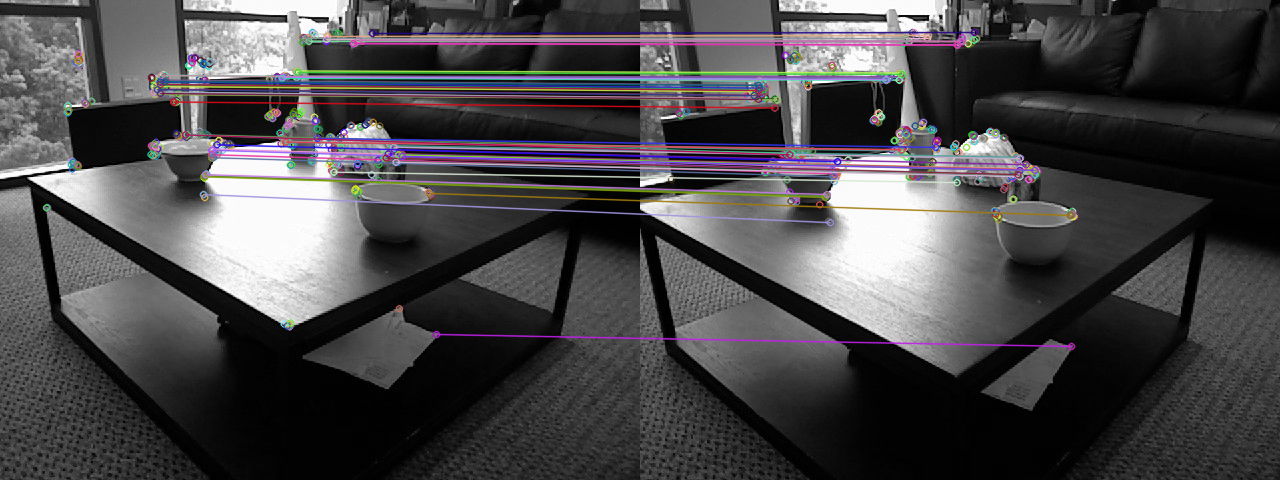
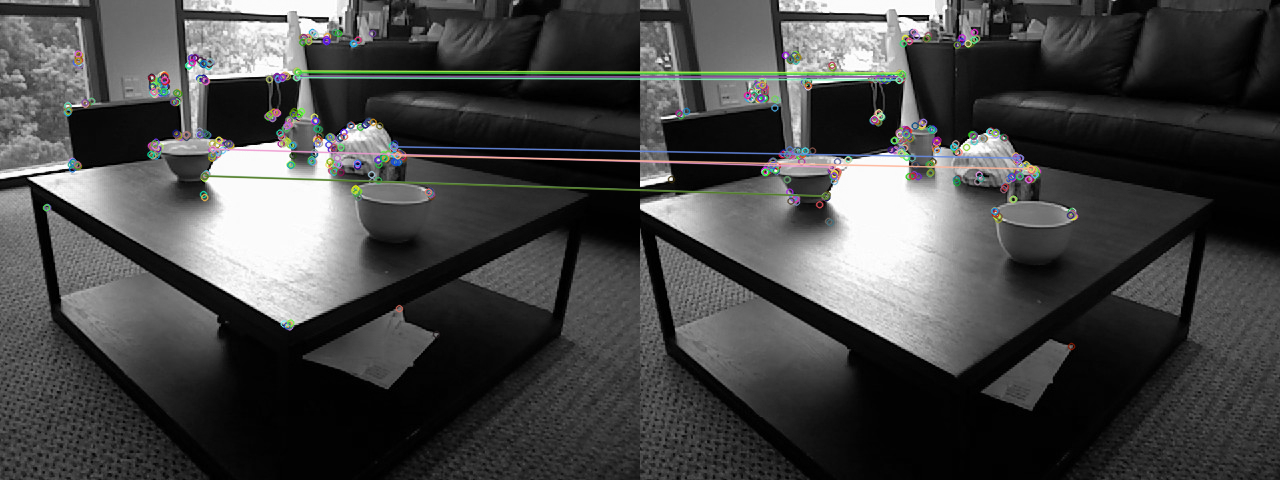
Draw & toggle matches

diff --git a/src/spawn.rs b/src/spawn.rs
@@ -1,15 +1,16 @@
-use std::{path::Path, sync::{Arc, Mutex}};
-
+use std::path::Path;
 use bevy::{asset::RenderAssetUsages, prelude::*, render::mesh::PrimitiveTopology};
-use bevy_flycam::prelude::*;
 use rand::Rng;
 use crate::render::{self, CENTER};
 
 #[derive(Resource)]
-pub struct ExtractedKeypoints(pub Arc<Mutex<Vec<[f32; 3]>>>);
+pub struct ExtractedKeypoints(pub (Vec<[f32; 3]>, Vec<[f32; 3]>, Vec<[usize; 2]>));
 
 #[derive(Component)]
 pub struct ToggleKeypoints;
+
+#[derive(Component)]
+pub struct ToggleMatches;
 
 pub fn spawn_mesh<T: AsRef<Path>>(
     commands: &mut Commands,
@@ -34,17 +35,22 @@ pub fn spawn_mesh<T: AsRef<Path>>(
     ));
 }
 
+/// Draws keypoints and their corresponding matches
+/// 
+/// * matches: Matches from the first image to the second one, which means that keypoints1[i]
+/// has a corresponding point in keypoints2[matches[i]]
 pub fn spawn_keypoints(
-    commands: &mut Commands,
-    meshes: &mut ResMut<Assets<Mesh>>,
-    materials: &mut ResMut<Assets<StandardMaterial>>,
-    keypoints: Res<ExtractedKeypoints>,
+    mut commands: &mut Commands,
+    mut meshes: &mut ResMut<Assets<Mesh>>,
+    mut materials: &mut ResMut<Assets<StandardMaterial>>,
+    matches: &Vec<[usize; 2]>,
+    keypoints1: &Vec<[f32; 3]>,
+    keypoints2: &Vec<[f32; 3]>,
+    transform1: Transform,
+    transform2: Transform
 ) {
-    let kps = keypoints.0.lock().unwrap(); // Safely access the keypoints
-    let icosphere_mesh = meshes.add(Sphere::new(0.1).mesh().ico(7).unwrap());
-
-    // Spawn all keypoints
-    for keypoint in kps.iter() {
+    // Spawn all keypoints that match
+    for dmatch in matches.iter() {
         let mut rng = rand::thread_rng();
     
         // Generate a random color
@@ -53,20 +59,89 @@ pub fn spawn_keypoints(
             1.0,
             1.0,
         );
+
+        // Get keypoints coordinates and spawn them
+        let query_idx = dmatch[0];
+        let train_idx = dmatch[1];
         
-        // Spawn a ball (sphere) at position (x, y, z)
-        commands.spawn((
-            Mesh3d(icosphere_mesh.clone()),
-            MeshMaterial3d(materials.add(StandardMaterial {
-                base_color: color,
-                alpha_mode: AlphaMode::Opaque,
-                ..default()
-            })),
-            Transform::from_xyz(keypoint[0], keypoint[1], keypoint[2]),
-            Visibility::Hidden,
-            ToggleKeypoints
-        ));
+        // Check array limits
+        if query_idx < keypoints1.len() && train_idx < keypoints2.len() {
+            // Draw points
+            let keypoint1 = keypoints1[query_idx];
+            let position1 = transform1.transform_point(Vec3::from_array(keypoint1));
+            draw_keypoint(&mut commands, &mut meshes, &mut materials, position1, color);
+
+            let keypoint2 = keypoints2[train_idx];
+            let position2 = transform2.transform_point(Vec3::from_array(keypoint2));
+            draw_keypoint(&mut commands, &mut meshes, &mut materials, position2, color);
+
+            draw_line(
+                &mut commands, 
+                &mut meshes, 
+                &mut materials, 
+                position1, 
+                position2, 
+                color, 
+                0.05
+            );
+        }
     }
+}
+
+fn draw_keypoint(
+    commands: &mut Commands, 
+    meshes: &mut ResMut<Assets<Mesh>>, 
+    materials: &mut ResMut<Assets<StandardMaterial>>, 
+    position: Vec3, 
+    color: Color
+) {
+    let icosphere_mesh = meshes.add(Sphere::new(0.1).mesh().ico(7).unwrap());
+
+    // Spawn a ball (sphere) at position (x, y, z)
+    commands.spawn((
+        Mesh3d(icosphere_mesh.clone()),
+        MeshMaterial3d(materials.add(StandardMaterial {
+            base_color: color,
+            alpha_mode: AlphaMode::Opaque,
+            emissive: color.into(),
+            ..default()
+        })),
+        Transform::from_xyz(position.x, position.y, position.z),
+        Visibility::Hidden,
+        ToggleKeypoints
+    ));
+}
+
+fn draw_line(
+    commands: &mut Commands,
+    meshes: &mut ResMut<Assets<Mesh>>,
+    materials: &mut ResMut<Assets<StandardMaterial>>,
+    start: Vec3,
+    end: Vec3,
+    color: Color,
+    thickness: f32,
+) {
+    let direction = end - start;
+    let length = direction.length();
+    let midpoint = start + direction * 0.5;
+    let rotation = Quat::from_rotation_arc(Vec3::Y, direction.normalize());
+
+    commands.spawn((
+        Mesh3d(meshes.add(Cylinder::new(thickness / 2.0, length))),
+        MeshMaterial3d(materials.add(StandardMaterial {
+            base_color: color,
+            alpha_mode: AlphaMode::Opaque,
+            emissive: color.into(),
+            ..default()
+        })),
+        Transform {
+            translation: midpoint,
+            rotation,
+            ..Default::default()
+        },
+        Visibility::Hidden,
+        ToggleMatches
+    ));
 }
 
 pub fn spawn_pyramid_camera(
@@ -109,7 +184,12 @@ pub fn spawn_pyramid_camera(
     // Spawn pyramid edges
     commands.spawn((
         Mesh3d(meshes.add(mesh)),
-        MeshMaterial3d(materials.add(Color::WHITE)),
+        MeshMaterial3d(materials.add(StandardMaterial {
+            base_color: Color::WHITE,
+            alpha_mode: AlphaMode::Opaque,
+            emissive: Color::WHITE.into(),
+            ..default()
+        })),
         transform
     ));
 }

diff --git a/src/main.rs b/src/main.rs
@@ -1,5 +1,3 @@
-use std::sync::{Arc, Mutex};
-
 use bevy::prelude::*;
 use bevy_flycam::prelude::*;
 use spawn::*;
@@ -11,19 +9,24 @@ mod spawn;
 const IMG1_COLOR_PATH: &str = "assets/00000-color.png";
 const IMG1_DEPTH_PATH: &str = "assets/00000-depth.png";
 const IMG2_COLOR_PATH: &str = "assets/00050-color.png";
-//const IMG2_DEPTH_PATH: &str = "assets/00050-depth.png";
-const IMG4_COLOR_PATH: &str = "assets/00200-color.png";
-const IMG4_DEPTH_PATH: &str = "assets/00200-depth.png";
+const IMG2_DEPTH_PATH: &str = "assets/00050-depth.png";
+//const IMG4_COLOR_PATH: &str = "assets/00200-color.png";
+//const IMG4_DEPTH_PATH: &str = "assets/00200-depth.png";
 
 fn main() {
     let mut keypoints1: Vec<[f32; 3]> = Vec::new();
     let mut keypoints2: Vec<[f32; 3]> = Vec::new();
-    if let Ok((kp1, kp2, _matches)) = orb::extract_features(
+    let mut matches: Vec<[usize; 2]> = Vec::new();
+    if let Ok((kps1, kps2, mts)) = orb::extract_features(
         IMG1_COLOR_PATH, 
         IMG2_COLOR_PATH
     ) {
-        keypoints1 = render::give_depth(kp1, IMG1_DEPTH_PATH);
-        keypoints2 = render::give_depth(kp2, IMG4_DEPTH_PATH);
+        keypoints1 = render::give_depth(kps1, IMG1_DEPTH_PATH);
+        keypoints2 = render::give_depth(kps2, IMG2_DEPTH_PATH);
+        matches = mts
+            .iter()
+            .map(|m| [m.query_idx as usize, m.train_idx as usize])
+            .collect();
     }
 
     App::new()
@@ -33,11 +36,11 @@ fn main() {
             sensitivity: 0.00015, // default: 0.00012
             speed: 10.0,          // default: 12.0
         })
-        .insert_resource(AmbientLight {
+        /*.insert_resource(AmbientLight {
             color: Color::WHITE,
             brightness: 500.0,
-        })
-        .insert_resource(ExtractedKeypoints(Arc::new(Mutex::new(keypoints1))))
+        })*/
+        .insert_resource(ExtractedKeypoints((keypoints1, keypoints2, matches)))
         .add_systems(Startup, setup)
         .add_systems(Update, input_handler)
         .run();
@@ -50,7 +53,7 @@ fn setup(
     mut materials: ResMut<Assets<StandardMaterial>>,
     keypoints: Res<ExtractedKeypoints>
 ) {
-    // Pose IMG1
+    // Reference pose (from IMG1)
     let pose1_quat = Quat::from_xyzw(0.0, 0.0, 0.0, 1.0); // Identity quaternion
     let pose1_translation = Vec3::new(0.0, 0.0, 0.0);
     let pose1 = Transform {
@@ -59,9 +62,18 @@ fn setup(
         ..Default::default()
     };
 
-    // Pose IMG2
-    //let pose2_quat = Quat::from_xyzw(-0.0059421, 0.0373319, 0.0209614, 0.999065);
-    //let pose2_translation = Vec3::new(-0.067494, -0.058187, 0.0369303);
+    // True IMG2 pose
+    /*// (x: -qX, y: -qY, z: qZ, w: qW)
+    let pose2_quat = Quat::from_xyzw(0.0059421, -0.0373319, 0.0209614, 0.999065);
+    // (x: -worldX, y: -worldY, z: worldZ)
+    let pose2_translation = Vec3::new(0.067494*10.0, 0.058187*10.0, 0.0369303*10.0);
+    let pose2 = Transform {
+        rotation: pose2_quat,
+        translation: pose2_translation,
+        ..Default::default()
+    };*/
+    
+    // Initial IMG2 pose (It's actually the IMG4 pose)
     // (x: -qX, y: -qY, z: qZ, w: qW)
     let pose2_quat = Quat::from_xyzw(0.0610943, -0.324556, 0.149797, 0.931926);
     // (x: -worldX, y: -worldY, z: worldZ)
@@ -76,16 +88,19 @@ fn setup(
     spawn_mesh(&mut commands, &mut meshes, &mut materials, IMG1_COLOR_PATH, IMG1_DEPTH_PATH, pose1);
 
     // Spawn predicted mesh
-    spawn_mesh(&mut commands, &mut meshes, &mut materials, IMG4_COLOR_PATH, IMG4_DEPTH_PATH, pose2);
+    spawn_mesh(&mut commands, &mut meshes, &mut materials, IMG2_COLOR_PATH, IMG2_DEPTH_PATH, pose2);
+    //spawn_mesh(&mut commands, &mut meshes, &mut materials, IMG4_COLOR_PATH, IMG4_DEPTH_PATH, pose4);
 
-    // Spawn reference keypoints
-    spawn_keypoints(&mut commands, &mut meshes, &mut materials, keypoints);
+    // Spawn keypoints in both images (reference and target)
+    let (keypoints1, keypoints2, matches) = &keypoints.0;
+    spawn_keypoints(&mut commands, &mut meshes, &mut materials, matches,keypoints1,keypoints2,pose1,pose2);
 
     // Spawn reference camera
     spawn_pyramid_camera(&mut commands, &mut meshes, &mut materials, pose1);
 
     // Spawn predicted camera
     spawn_pyramid_camera(&mut commands, &mut meshes, &mut materials, pose2);
+    //spawn_pyramid_camera(&mut commands, &mut meshes, &mut materials, pose4);
 
     // Display instructions
     spawn_instructions(&mut commands);
@@ -102,11 +117,21 @@ fn setup(
 // System to receive input from the user
 fn input_handler(
     keyboard_input: Res<ButtonInput<KeyCode>>,
-    mut query: Query<&mut Visibility, With<ToggleKeypoints>>
+    mut param_set: ParamSet<(
+        Query<&mut Visibility, With<ToggleKeypoints>>,
+        Query<&mut Visibility, With<ToggleMatches>>,
+    )>,
 ) {
     // Toggle keypoints visibility
     if keyboard_input.just_pressed(KeyCode::KeyK) {
-        for mut visibility in query.iter_mut() {
+        for mut visibility in param_set.p0().iter_mut() {
+            visibility.toggle_visible_hidden();
+        }
+    }
+
+    // Toggle matches visibility
+    if keyboard_input.just_pressed(KeyCode::KeyM) {
+        for mut visibility in param_set.p1().iter_mut() {
             visibility.toggle_visible_hidden();
         }
     }

diff --git a/src/render.rs b/src/render.rs
@@ -7,6 +7,7 @@ use opencv::core::{KeyPoint, KeyPointTraitConst, Vector};
 pub const CENTER: [f32; 2] = [320.0, 240.0]; // Image center
 pub const CONSTANT: f32 = 570.3;             // Focal length (in pixels, typically in x and y directions)
 pub const MM_PER_M: f32 = 1000.0;            // Conversion factor (millimeters to meters)
+pub const NO_VALUE: f32 = 0.0;
 
 pub fn rgbd_to_mesh<T: AsRef<Path>>(color_path: T, depth_path: T) -> Mesh {
     // Load the depth and color images
@@ -30,7 +31,7 @@ pub fn rgbd_to_mesh<T: AsRef<Path>>(color_path: T, depth_path: T) -> Mesh {
                     // Extract the depth value from the red channel (index 0)
                     let depth_value = depth_buffer.get_pixel(x, y).channels()[0] as f32;
 
-                    if depth_value != 0.0 {
+                    if depth_value != NO_VALUE {
                         positions.push(compute_world_coordinates(x as f32, y as f32, depth_value));
             
                         // Get the corresponding color from the color image
@@ -68,7 +69,7 @@ pub fn give_depth<T: AsRef<Path>>(keypoints: Vector<KeyPoint>, depth_path: T) ->
                 .get_pixel(x, y)
                 .channels()[0] as f32;
 
-            if depth_value != 0.0 {
+            if depth_value != NO_VALUE {
                 positions.push(compute_world_coordinates(x as f32, y as f32, depth_value));
             }
         }

diff --git a/src/orb.rs b/src/orb.rs
@@ -44,7 +44,7 @@ pub fn extract_features(img1_path: &str, img2_path: &str) ->
     // Sort matches by distance and retain the top 100
     let mut matches_vec: Vec<_> = matches.to_vec();
     matches_vec.sort_by(|a, b| a.distance.partial_cmp(&b.distance).unwrap());
-    let top_matches = &matches_vec[..70]; // Take the top 100 matches
+    let top_matches = &matches_vec[..10]; // Take the top matches
 
     // Convert top matches back to OpenCV VectorOfDMatch
     let mut top_matches_dmatch: Vector<DMatch> = Vector::new();
@@ -77,5 +77,5 @@ pub fn extract_features(img1_path: &str, img2_path: &str) ->
     imwrite(output_path, &matched_image, &opencv::core::Vector::new())?;
     println!("Matched image saved to {}", output_path);
 
-    Ok((keypoints1, keypoints2, matches))
+    Ok((keypoints1, keypoints2, top_matches_dmatch))
 }
